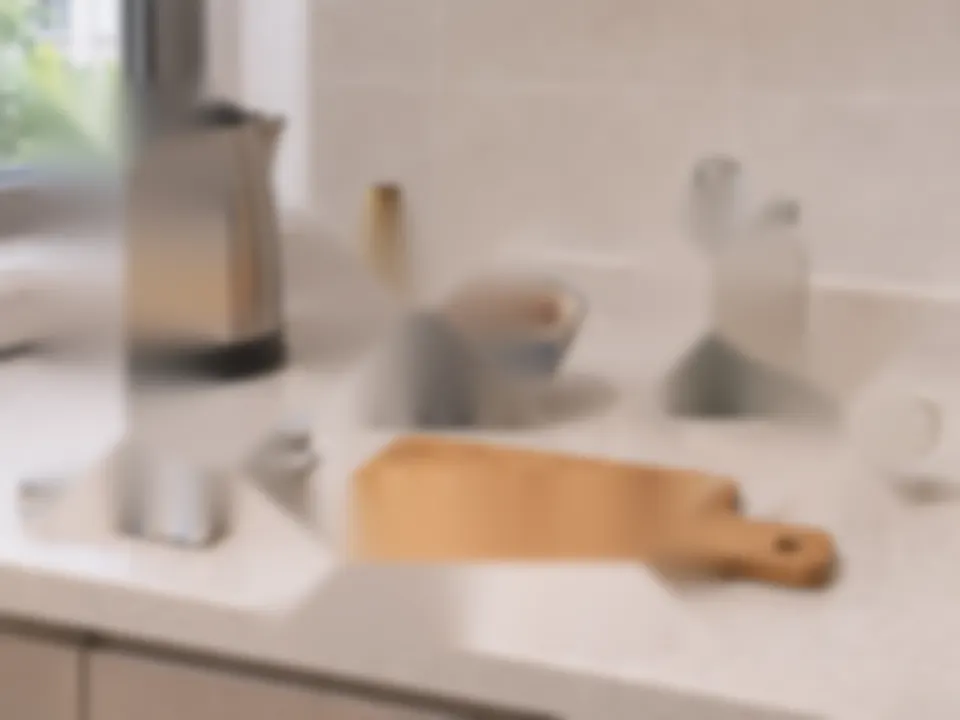
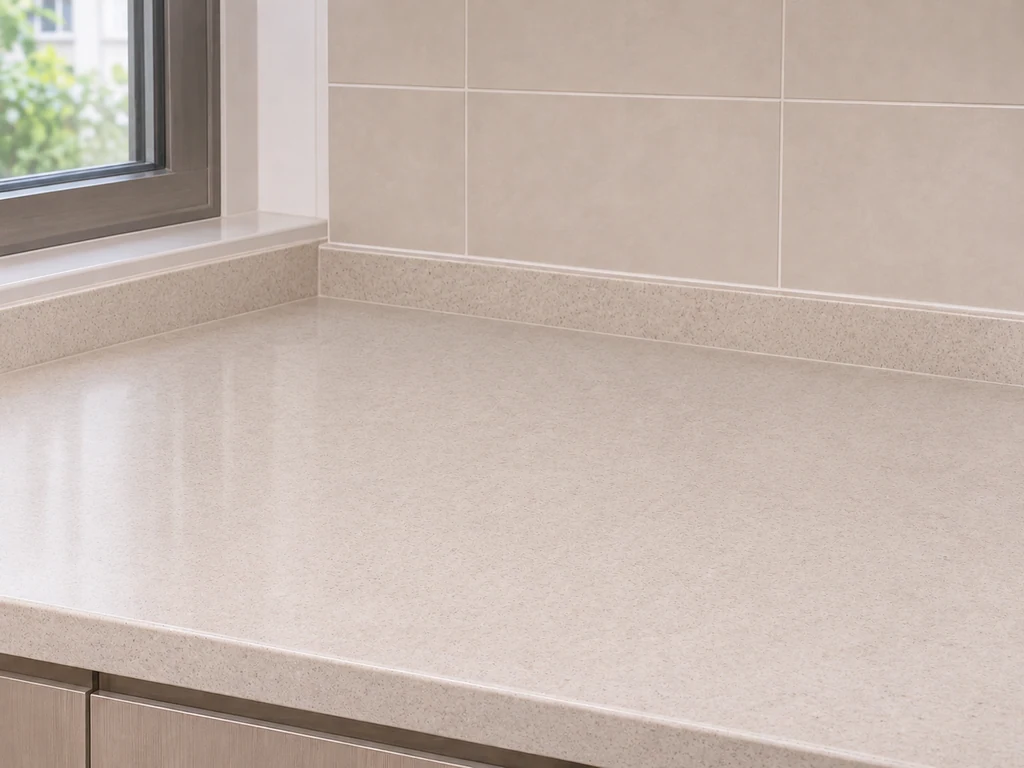
Add files via upload

diff --git a/nema-v/index.html b/nema-v/index.html
@@ -20,9 +20,9 @@
 .asset-status.error{background:#fff0ea;color:#963923;white-space:pre-wrap;overflow-wrap:anywhere}
 .asset-status.ok{background:#e7f5ed;color:#225e3b}
 button:disabled{opacity:.55;cursor:not-allowed}
-</style></head><body><header><h1>NEMA-V｜場景記憶與重建</h1><small>Scene Memory, Boundary Reconstruction & Relational Recognition｜TeleNPA 雙階段測試版</small></header><main><div id="app"></div><footer>此版本為互動介面與資料結構原型：場景使用示意插畫／圖示，並非已驗證或文化審查的正式刺激；測試版資料同步至 Supabase；刺激尚未正式驗證或文化審查，不用於臨床計分。</footer></main><script src="../config.js"></script><script src="../shared/auth.js"></script><script>
+</style></head><body><header><h1>NEMA-V｜場景記憶與重建</h1><small>Scene Memory, Boundary Reconstruction & Relational Recognition｜TeleNPA 雙階段測試版</small></header><main><div id="app"></div><footer>此版本為互動介面與資料結構原型：場景使用原始照片與另行製作的乾淨背景；兩者尚未精確像素配準；測試版資料同步至 Supabase；刺激尚未正式驗證或文化審查，不用於臨床計分。</footer></main><script src="../config.js"></script><script src="../shared/auth.js"></script><script>
 'use strict';
-const scenes=[{"id":"M1","kind":"M1","label":"現代廚房","cultural":"modern","objs":["熱水壺","水果碗","餅乾罐","馬克杯","抹布","砧板"],"points":[{"name":"熱水壺","x":13.0,"y":34.0,"w":19.0,"h":46.0},{"name":"水果碗","x":44.0,"y":43.0,"w":25.0,"h":30.0},{"name":"餅乾罐","x":74.0,"y":41.0,"w":16.0,"h":31.0},{"name":"馬克杯","x":88.0,"y":59.0,"w":15.0,"h":25.0},{"name":"抹布","x":17.0,"y":65.0,"w":27.0,"h":16.0},{"name":"砧板","x":51.0,"y":78.0,"w":48.0,"h":22.0}],"photo":"assets/M1.webp","empty":"assets/M1_empty.webp","stimulus_version":"photo-v2-pilot"},{"id":"T1","kind":"T1","label":"傳統備食區","cultural":"traditional","objs":["石臼","陶鍋","水甕","竹篩","小米","木杵"],"points":[{"name":"石臼","x":18.0,"y":59.0,"w":32.0,"h":40.0},{"name":"陶鍋","x":49.0,"y":32.0,"w":29.0,"h":34.0},{"name":"水甕","x":75.0,"y":32.0,"w":27.0,"h":42.0},{"name":"竹篩","x":80.0,"y":64.0,"w":38.0,"h":31.0},{"name":"小米","x":48.0,"y":79.0,"w":24.0,"h":16.0},{"name":"木杵","x":10.0,"y":49.0,"w":18.0,"h":36.0}],"photo":"assets/T1.webp","empty":"assets/T1_empty.webp","stimulus_version":"photo-v2-pilot"},{"id":"M2","kind":"M2","label":"書桌","cultural":"modern","objs":["檯燈","筆筒","盆栽","文件夾","筆記本","眼鏡"],"points":[{"name":"檯燈","x":17.0,"y":34.0,"w":29.0,"h":62.0},{"name":"筆筒","x":48.0,"y":45.0,"w":13.0,"h":28.0},{"name":"盆栽","x":79.0,"y":44.0,"w":28.0,"h":40.0},{"name":"文件夾","x":29.0,"y":79.0,"w":48.0,"h":22.0},{"name":"筆記本","x":54.0,"y":83.0,"w":38.0,"h":29.0},{"name":"眼鏡","x":77.0,"y":69.0,"w":22.0,"h":15.0}],"photo":"assets/M2.webp","empty":"assets/M2_empty.webp","stimulus_version":"photo-v2-pilot"},{"id":"T2","kind":"T2","label":"編織工作區","cultural":"traditional","objs":["織具","線團","竹籃","梭具","織帶","工具盒"],"points":[{"name":"織具","x":58.0,"y":39.0,"w":39.0,"h":71.0},{"name":"線團","x":24.0,"y":76.0,"w":26.0,"h":25.0},{"name":"竹籃","x":17.0,"y":56.0,"w":30.0,"h":40.0},{"name":"梭具","x":54.0,"y":76.0,"w":27.0,"h":16.0},{"name":"織帶","x":76.0,"y":81.0,"w":37.0,"h":23.0},{"name":"工具盒","x":87.0,"y":56.0,"w":22.0,"h":32.0}],"photo":"assets/T2.webp","empty":"assets/T2_empty.webp","stimulus_version":"photo-v2-pilot"},{"id":"M3","kind":"M3","label":"都市玄關","cultural":"modern","objs":["帽子","外套","背包","水壺","雨傘","收納籃"],"points":[{"name":"帽子","x":29.0,"y":30.0,"w":25.0,"h":34.0},{"name":"外套","x":57.0,"y":42.0,"w":18.0,"h":59.0},{"name":"背包","x":25.0,"y":75.0,"w":27.0,"h":40.0},{"name":"水壺","x":40.0,"y":82.0,"w":10.0,"h":30.0},{"name":"雨傘","x":70.0,"y":37.0,"w":12.0,"h":51.0},{"name":"收納籃","x":78.0,"y":78.0,"w":23.0,"h":28.0}],"photo":"assets/M3.webp","empty":"assets/M3_empty.webp","stimulus_version":"photo-v2-pilot"},{"id":"T3","kind":"T3","label":"山屋入口","cultural":"traditional","objs":["背簍","披布","手杖","草鞋","編籃","木碗"],"points":[{"name":"背簍","x":20.0,"y":48.0,"w":31.0,"h":48.0},{"name":"披布","x":41.0,"y":24.0,"w":30.0,"h":38.0},{"name":"手杖","x":66.0,"y":36.0,"w":12.0,"h":55.0},{"name":"草鞋","x":62.0,"y":83.0,"w":25.0,"h":25.0},{"name":"編籃","x":81.0,"y":64.0,"w":34.0,"h":34.0},{"name":"木碗","x":41.0,"y":65.0,"w":22.0,"h":20.0}],"photo":"assets/T3.webp","empty":"assets/T3_empty.webp","stimulus_version":"photo-v2-pilot"},{"id":"M4","kind":"M4","label":"社區花市","cultural":"modern","objs":["花盆","澆水壺","園藝剪刀","手套","草帽","購物袋"],"points":[{"name":"花盆","x":35.0,"y":35.0,"w":31.0,"h":47.0},{"name":"澆水壺","x":64.0,"y":43.0,"w":25.0,"h":45.0},{"name":"園藝剪刀","x":79.0,"y":76.0,"w":21.0,"h":17.0},{"name":"手套","x":61.0,"y":86.0,"w":28.0,"h":20.0},{"name":"草帽","x":25.0,"y":80.0,"w":48.0,"h":32.0},{"name":"購物袋","x":88.0,"y":37.0,"w":24.0,"h":39.0}],"photo":"assets/M4.webp","empty":"assets/M4_empty.webp","stimulus_version":"photo-v2-pilot"},{"id":"T4","kind":"T4","label":"採集整理區","cultural":"traditional","objs":["背簍","植物束","木盤","容器","採集工具","布袋"],"points":[{"name":"背簍","x":21.0,"y":39.0,"w":28.0,"h":68.0},{"name":"植物束","x":37.0,"y":69.0,"w":35.0,"h":29.0},{"name":"木盤","x":76.0,"y":65.0,"w":31.0,"h":28.0},{"name":"容器","x":62.0,"y":31.0,"w":22.0,"h":33.0},{"name":"採集工具","x":25.0,"y":84.0,"w":32.0,"h":20.0},{"name":"布袋","x":84.0,"y":83.0,"w":27.0,"h":33.0}],"photo":"assets/T4.webp","empty":"assets/T4_empty.webp","stimulus_version":"photo-v2-pilot"}];
+const scenes=[{"id":"M1","kind":"M1","label":"現代廚房","cultural":"modern","objs":["熱水壺","水果碗","餅乾罐","馬克杯","抹布","砧板"],"points":[{"name":"熱水壺","x":13.0,"y":34.0,"w":19.0,"h":46.0},{"name":"水果碗","x":44.0,"y":43.0,"w":25.0,"h":30.0},{"name":"餅乾罐","x":74.0,"y":41.0,"w":16.0,"h":31.0},{"name":"馬克杯","x":88.0,"y":59.0,"w":15.0,"h":25.0},{"name":"抹布","x":17.0,"y":65.0,"w":27.0,"h":16.0},{"name":"砧板","x":51.0,"y":78.0,"w":48.0,"h":22.0}],"photo":"assets/M1.webp","empty":"assets/M1_empty.webp","stimulus_version":"photo-v4-clean-background-pilot"},{"id":"T1","kind":"T1","label":"傳統備食區","cultural":"traditional","objs":["石臼","陶鍋","水甕","竹篩","小米","木杵"],"points":[{"name":"石臼","x":18.0,"y":59.0,"w":32.0,"h":40.0},{"name":"陶鍋","x":49.0,"y":32.0,"w":29.0,"h":34.0},{"name":"水甕","x":75.0,"y":32.0,"w":27.0,"h":42.0},{"name":"竹篩","x":80.0,"y":64.0,"w":38.0,"h":31.0},{"name":"小米","x":48.0,"y":79.0,"w":24.0,"h":16.0},{"name":"木杵","x":10.0,"y":49.0,"w":18.0,"h":36.0}],"photo":"assets/T1.webp","empty":"assets/T1_empty.webp","stimulus_version":"photo-v4-clean-background-pilot"},{"id":"M2","kind":"M2","label":"書桌","cultural":"modern","objs":["檯燈","筆筒","盆栽","文件夾","筆記本","眼鏡"],"points":[{"name":"檯燈","x":17.0,"y":34.0,"w":29.0,"h":62.0},{"name":"筆筒","x":48.0,"y":45.0,"w":13.0,"h":28.0},{"name":"盆栽","x":79.0,"y":44.0,"w":28.0,"h":40.0},{"name":"文件夾","x":29.0,"y":79.0,"w":48.0,"h":22.0},{"name":"筆記本","x":54.0,"y":83.0,"w":38.0,"h":29.0},{"name":"眼鏡","x":77.0,"y":69.0,"w":22.0,"h":15.0}],"photo":"assets/M2.webp","empty":"assets/M2_empty.webp","stimulus_version":"photo-v4-clean-background-pilot"},{"id":"T2","kind":"T2","label":"編織工作區","cultural":"traditional","objs":["織具","線團","竹籃","梭具","織帶","工具盒"],"points":[{"name":"織具","x":58.0,"y":39.0,"w":39.0,"h":71.0},{"name":"線團","x":24.0,"y":76.0,"w":26.0,"h":25.0},{"name":"竹籃","x":17.0,"y":56.0,"w":30.0,"h":40.0},{"name":"梭具","x":54.0,"y":76.0,"w":27.0,"h":16.0},{"name":"織帶","x":76.0,"y":81.0,"w":37.0,"h":23.0},{"name":"工具盒","x":87.0,"y":56.0,"w":22.0,"h":32.0}],"photo":"assets/T2.webp","empty":"assets/T2_empty.webp","stimulus_version":"photo-v4-clean-background-pilot"},{"id":"M3","kind":"M3","label":"都市玄關","cultural":"modern","objs":["帽子","外套","背包","水壺","雨傘","收納籃"],"points":[{"name":"帽子","x":29.0,"y":30.0,"w":25.0,"h":34.0},{"name":"外套","x":57.0,"y":42.0,"w":18.0,"h":59.0},{"name":"背包","x":25.0,"y":75.0,"w":27.0,"h":40.0},{"name":"水壺","x":40.0,"y":82.0,"w":10.0,"h":30.0},{"name":"雨傘","x":70.0,"y":37.0,"w":12.0,"h":51.0},{"name":"收納籃","x":78.0,"y":78.0,"w":23.0,"h":28.0}],"photo":"assets/M3.webp","empty":"assets/M3_empty.webp","stimulus_version":"photo-v4-clean-background-pilot"},{"id":"T3","kind":"T3","label":"山屋入口","cultural":"traditional","objs":["背簍","披布","手杖","草鞋","編籃","木碗"],"points":[{"name":"背簍","x":20.0,"y":48.0,"w":31.0,"h":48.0},{"name":"披布","x":41.0,"y":24.0,"w":30.0,"h":38.0},{"name":"手杖","x":66.0,"y":36.0,"w":12.0,"h":55.0},{"name":"草鞋","x":62.0,"y":83.0,"w":25.0,"h":25.0},{"name":"編籃","x":81.0,"y":64.0,"w":34.0,"h":34.0},{"name":"木碗","x":41.0,"y":65.0,"w":22.0,"h":20.0}],"photo":"assets/T3.webp","empty":"assets/T3_empty.webp","stimulus_version":"photo-v4-clean-background-pilot"},{"id":"M4","kind":"M4","label":"社區花市","cultural":"modern","objs":["花盆","澆水壺","園藝剪刀","手套","草帽","購物袋"],"points":[{"name":"花盆","x":35.0,"y":35.0,"w":31.0,"h":47.0},{"name":"澆水壺","x":64.0,"y":43.0,"w":25.0,"h":45.0},{"name":"園藝剪刀","x":79.0,"y":76.0,"w":21.0,"h":17.0},{"name":"手套","x":61.0,"y":86.0,"w":28.0,"h":20.0},{"name":"草帽","x":25.0,"y":80.0,"w":48.0,"h":32.0},{"name":"購物袋","x":88.0,"y":37.0,"w":24.0,"h":39.0}],"photo":"assets/M4.webp","empty":"assets/M4_empty.webp","stimulus_version":"photo-v4-clean-background-pilot"},{"id":"T4","kind":"T4","label":"採集整理區","cultural":"traditional","objs":["背簍","植物束","木盤","容器","採集工具","布袋"],"points":[{"name":"背簍","x":21.0,"y":39.0,"w":28.0,"h":68.0},{"name":"植物束","x":37.0,"y":69.0,"w":35.0,"h":29.0},{"name":"木盤","x":76.0,"y":65.0,"w":31.0,"h":28.0},{"name":"容器","x":62.0,"y":31.0,"w":22.0,"h":33.0},{"name":"採集工具","x":25.0,"y":84.0,"w":32.0,"h":20.0},{"name":"布袋","x":84.0,"y":83.0,"w":27.0,"h":33.0}],"photo":"assets/T4.webp","empty":"assets/T4_empty.webp","stimulus_version":"photo-v4-clean-background-pilot"}];
 // Photo-specific scoring anchors. These are hand-labelled pilot centers, not validated ground truth.
 const slots=[];const configs=[];
 function snapPoints(sc){let used=sc.points.map(o=>({x:o.x,y:o.y}));let extras=[{x:8,y:10},{x:50,y:10},{x:92,y:11},{x:8,y:91},{x:50,y:91},{x:92,y:91},{x:50,y:46},{x:9,y:43},{x:91,y:45}];for(let e of extras){if(used.length>=12)break;if(used.every(x=>Math.hypot(x.x-e.x,x.y-e.y)>13))used.push(e)}for(let e of extras){if(used.length>=12)break;used.push({...e})}return used.slice(0,12)}
@@ -71,19 +71,37 @@ async function checkStimulusAssets(){
  }
  if(startButton)startButton.disabled=!verifiedAssets;
 }
-function nextEncoded(){
+function nextEncoded_DISABLED(){
  const image=document.querySelector('#scene img.photo-stage');
  if(!image||!image.complete||!image.naturalWidth){
   alert('此張編碼圖片未成功載入，已阻止進入下一張。請確認 nema-v/assets 與 GitHub Pages 的路徑。');return;
  }
  state.idx++;encode();
 }
-function initial(){state.phase='intro';set(box('NEMA-V｜試測流程',`<p>八張照片中每次隨機選取四張（一般生活與傳統生活各兩張）。接著依序完成背景辨識、場景邊界調整、六物件位置重建，以及五選一整體再認。</p><p class="notice">這是可操作的原型：每一階段都<strong>不會提示正確答案</strong>。滑桿只有「較近／較遠」，不顯示數字。拖曳物件會吸附到隱形格位，也可先點選物件再點選場景位置。</p><div id="asset-status" class="asset-status">正在檢查刺激圖片…</div><div class="actions"><button id="begin-assessment" disabled onclick="start()">開始新場次</button><button class="alt" onclick="checkStimulusAssets()">重新檢查圖片</button></div>`));checkStimulusAssets();}
-async function start(){if(busy)return;if(!verifiedAssets){alert('圖片資產尚未通過完整檢查，不能開始施測。');return;}busy=true;let m=Math.random()<.5?0:1;state.order=[0,1,2,3].map((i)=>layout((i%2===m?'M':'T')+(i+1)));state.order=shuffle(state.order);state.seen=[];state.runs=[];state.idx=0;state.started=now();try{phaseMode='immediate';immediateEnd=null;await initAssessment();encode()}catch(e){alert('無法建立 Supabase 場次：'+e.message);initial()}finally{busy=false}}
-function encode(){state.phase='encode';persist();if(state.idx>=state.order.length){state.idx=0;return beginRecall()}const sc=state.order[state.idx];state.current=sc;state.seen.push({id:sc.id,at:now()});set(box(`編碼｜畫面 ${state.idx+1}／${state.order.length}`,`<p class="minor">請記住畫面中的<strong>背景、六項物件及各物件的位置</strong>。觀察完成後按下一步。</p><div id="scene">${sceneHtml(sc,sc.locs,sc.zoom,{showItems:false})}</div><div class="actions"><button onclick="nextEncoded()">已記住，下一張</button></div>`));}
+function initial(){state.phase='intro';set(box('NEMA-V｜試測流程',`<p>依照 TeleNPA 首頁設定，從場景組 A（一般生活）／B（文化生活）選取；完整施測共八張。每張編碼固定 10 秒，自動進入下一張。接著依序完成背景辨識、場景邊界調整、六物件位置重建，以及五選一整體再認。</p><p class="notice">這是可操作的原型：每一階段都<strong>不會提示正確答案</strong>。滑桿只有「較近／較遠」，不顯示數字。拖曳物件會吸附到隱形格位，也可先點選物件再點選場景位置。</p><div id="asset-status" class="asset-status">正在檢查刺激圖片…</div><div class="actions"><button id="begin-assessment" disabled onclick="start()">開始新場次</button><button class="alt" onclick="checkStimulusAssets()">重新檢查圖片</button></div>`));checkStimulusAssets();}
+async function start(){if(busy)return;if(!verifiedAssets){alert('圖片資產尚未通過完整檢查，不能開始施測。');return;}busy=true;const selectedSet=['a','b','both'].includes(protocol()?.nemav_scene_set)?protocol().nemav_scene_set:'both';state.sceneSet=selectedSet;state.order=shuffle((selectedSet==='a'?['M1','M2','M3','M4']:selectedSet==='b'?['T1','T2','T3','T4']:['M1','T1','M2','T2','M3','T3','M4','T4']).map(layout));state.seen=[];state.runs=[];state.idx=0;state.started=now();try{phaseMode='immediate';immediateEnd=null;await initAssessment();encode()}catch(e){alert('無法建立 Supabase 場次：'+e.message);initial()}finally{busy=false}}
+let encodingTimeout=null,encodingInterval=null,encodingToken=0;
+function stopEncodingTimer(){if(encodingTimeout)clearTimeout(encodingTimeout);if(encodingInterval)clearInterval(encodingInterval);encodingTimeout=null;encodingInterval=null;encodingToken++;}
+function encode(){
+ stopEncodingTimer();state.phase='encode';persist();
+ if(state.idx>=state.order.length){state.idx=0;return beginRecall()}
+ const sc=state.order[state.idx];state.current=sc;
+ if(!state.seen.some(o=>o.id===sc.id))state.seen.push({id:sc.id,at:now()});
+ set(box(`編碼｜畫面 ${state.idx+1}／${state.order.length}`,`<p class="minor">請記住畫面的背景、六項物件及位置。<strong>圖片成功載入後將固定呈現 10 秒，隨後自動進入下一張。</strong></p><div id="scene">${sceneHtml(sc,sc.locs,sc.zoom,{showItems:false})}</div><p id="encode-status" role="status" class="minor">正在載入刺激，計時尚未開始…</p>`));
+ const im=document.querySelector('#scene img.photo-stage');const token=encodingToken;
+ function ready(){if(token!==encodingToken||state.phase!=='encode')return;
+   if(!im.naturalWidth){const el=$('encode-status');if(el)el.textContent='圖片載入失敗，已暫停測驗。';return}
+   const startAt=performance.now();state.seen[state.seen.length-1].loaded_at=now();persist();
+   const el=$('encode-status');if(el)el.textContent='請專心觀看圖片';
+   encodingInterval=setInterval(()=>{if(token!==encodingToken)return;const el=$('encode-status');if(el)el.textContent='請專心觀看圖片（剩餘 '+Math.max(0,Math.ceil((10000-(performance.now()-startAt))/1000))+' 秒）';},250);
+   encodingTimeout=setTimeout(()=>{if(token!==encodingToken)return;stopEncodingTimer();state.idx++;encode()},10000);
+ }
+ if(im.complete)ready();else{im.addEventListener('load',ready,{once:true});im.addEventListener('error',()=>{const el=$('encode-status');if(el)el.textContent='無法載入刺激圖片，請檢查 assets；不會自動跳過。'},{once:true})}
+}
+
 function beginRecall(){state.idx=0;recallScene()}
-function recallScene(){state.phase='background';if(state.idx>=state.order.length)return completePhase();let sc=state.order[state.idx];state.current=sc;state.sites=snapPoints(sc);state.answers={id:sc.id,stimulus_version:'photo-v2-pilot',phase:phaseMode,encZoom:sc.zoom,encLocs:sc.locs,object_names:sc.objs,object_centers:sc.points.map(p=>({x:p.x,y:p.y})),sites:state.sites,started_at:now()};state.background=null;state.zoom=1;state.selectedObj=null;state.recognition=null;persist();renderBg()}
-function renderBg(){let sc=state.current;let others=scenes.filter(t=>t.id!==sc.id&&t.cultural===sc.cultural);const options=shuffle([sc,...others]);state.bgVariants=options.map(o=>o.id);set(box(`重建 ${state.idx+1}／${state.order.length}｜背景辨識`,`<p>選擇先前看過的場景背景。</p><div class="bgchoices">${options.map((o,i)=>`<button class="option" onclick="pickBg(${i},'${o.id}')"><div class="thumb"><img src="${o.empty}" alt="背景選項"></div><div class="optionlabel">選項 ${'ABCD'[i]}</div></button>`).join('')}</div><p class="photo-note">背景已移除物件，屬於影像修補的試測素材；背景版本尚未完成視覺難度配對。</p><div class="actions"><button id="next" disabled onclick="goZoom()">下一步：調整場景遠近</button></div>`))}
+function recallScene(){state.phase='background';if(state.idx>=state.order.length)return completePhase();let sc=state.order[state.idx];state.current=sc;state.sites=snapPoints(sc);state.answers={id:sc.id,scene_set:state.sceneSet,stimulus_version:'photo-v4-clean-background-pilot',phase:phaseMode,encZoom:sc.zoom,encLocs:sc.locs,object_names:sc.objs,object_centers:sc.points.map(p=>({x:p.x,y:p.y})),sites:state.sites,started_at:now()};state.background=null;state.zoom=1;state.selectedObj=null;state.recognition=null;persist();renderBg()}
+function renderBg(){let sc=state.current;let others=scenes.filter(t=>t.id!==sc.id&&t.cultural===sc.cultural);const options=shuffle([sc,...others]);state.bgVariants=options.map(o=>o.id);set(box(`重建 ${state.idx+1}／${state.order.length}｜背景辨識`,`<p>選擇先前看過的場景背景。</p><div class="bgchoices">${options.map((o,i)=>`<button class="option" onclick="pickBg(${i},'${o.id}')"><div class="thumb"><img src="${o.empty}" alt="背景選項"></div><div class="optionlabel">選項 ${'ABCD'[i]}</div></button>`).join('')}</div><p class="photo-note">背景已改為乾淨無物件版本；目前與原始編碼照片仍有微小場景差異，僅供功能試測。</p><div class="actions"><button id="next" disabled onclick="goZoom()">下一步：調整場景遠近</button></div>`))}
 function pickBg(i,id){state.background=id;state.answers.background_choice_id=id;state.answers.background_correct=(id===state.current.id);state.answers.background_at=now();persist();document.querySelectorAll('.bgchoices .option').forEach((b,j)=>b.classList.toggle('selected',i===j));$('next').disabled=false}
 function goZoom(){state.phase='zoom';state.zoom=.73+Math.random()*.54;renderZoom();}
 function renderZoom(){let sc=state.current;set(box(`重建 ${state.idx+1}／${state.order.length}｜場景邊界`,`<p>請調整畫面的遠近，直到它看起來與剛才記住的視野範圍相同。</p><div id="scene">${sceneHtml({...sc,empty:scenes.find(o=>o.id===state.background)?.empty||sc.empty},Array(6).fill(null),state.zoom,{empty:true,showItems:false})}</div><div class="sliderwrap"><div class="sliderlabels"><span>較近</span><span>較遠</span></div><input id="zoomslider" type="range" min="0.65" max="1.35" step="0.005" value="${state.zoom}" oninput="changeZoom(this.value)" aria-label="場景較近或較遠"></div><p class="minor">請依記憶調整，畫面不會顯示比例或正確答案。</p><div class="actions"><button onclick="goPlace()">下一步：重建物件位置</button></div>`));}
@@ -103,7 +121,7 @@ let objPts=state.current.points,respPts=state.places.map(i=>state.sites[i]);
 let errors=respPts.map((p,i)=>p?Math.round(Math.hypot(p.x-objPts[i].x,p.y-objPts[i].y)*100)/100:null);
 const correct=errors.map((e,i)=>state.places[i]===i);
 let swaps=0;for(let a=0;a<6;a++)for(let b=a+1;b<6;b++)if(state.places[a]===b&&state.places[b]===a)swaps++;
-state.answers.scoring={scoring_version:'photo-v2-anchor-pilot',location_correct:correct.filter(Boolean).length,location_correct_items:correct,location_errors_percent:errors,mean_location_error_pct:errors.reduce((a,b)=>a+b,0)/6,swap_pairs:swaps,boundary_log_ratio:Math.log(state.zoom/state.current.zoom),boundary_direction:state.zoom>state.current.zoom?'wider':state.zoom<state.current.zoom?'closer':'same',background_correct:state.answers.background_correct,integrated_recognition_correct:state.answers.recognition_correct,integrated_lure_type:state.answers.recognition_type,clinical_score_valid:false};
+state.answers.scoring={scoring_version:'photo-v4-anchor-pilot',location_correct:correct.filter(Boolean).length,location_correct_items:correct,location_errors_percent:errors,mean_location_error_pct:errors.reduce((a,b)=>a+b,0)/6,swap_pairs:swaps,boundary_log_ratio:Math.log(state.zoom/state.current.zoom),boundary_direction:state.zoom>state.current.zoom?'wider':state.zoom<state.current.zoom?'closer':'same',background_correct:state.answers.background_correct,integrated_recognition_correct:state.answers.recognition_correct,integrated_lure_type:state.answers.recognition_type,clinical_score_valid:false};
 try{await syncTrial(clone(state.answers),state.idx);state.runs.push(clone(state.answers));state.idx++;persist();recallScene()}catch(e){alert('雲端同步未成功，請確認網路並再次按儲存：'+e.message)}finally{busy=false}}
 
 async function completePhase(){if(phaseMode==='immediate'){
@@ -125,7 +143,7 @@ async function insertRow(table,row){return cloud('/rest/v1/'+table,{method:'POST
 async function initAssessment(){
  const b=activeBattery();if(!A.user())throw Error('請先在首頁登入 Supabase');if(!b?.id)throw Error('請先在首頁選用受試者場次');
  assessment=crypto.randomUUID();
- await insertRow('nemav_sessions',{id:assessment,owner_id:A.user().id,battery_session_id:b.id,stimulus_order:state.order.map(x=>({scene_id:x.id,locations:x.locs,encoding_zoom:x.zoom})),stimulus_version:'photo-v2-pilot'});
+ await insertRow('nemav_sessions',{id:assessment,owner_id:A.user().id,battery_session_id:b.id,stimulus_order:state.order.map(x=>({scene_id:x.id,locations:x.locs,encoding_zoom:x.zoom,scene_set:state.sceneSet,encoding_duration_ms:10000})),stimulus_version:'photo-v4-clean-background-pilot'});
  persist();
 }
 async function syncTrial(r,index){
@@ -140,7 +158,7 @@ async function syncRun(phase){
  await cloud('/rest/v1/test_runs?on_conflict=id',{
  method:'POST',headers:{Prefer:'resolution=ignore-duplicates,return=minimal'},
  body:JSON.stringify({id:state.runIds[phase],owner_id:A.user().id,battery_session_id:activeBattery().id,
- test_id:'nemav',test_version:'photo-v2-pilot',mode:'formal',condition:phase,status:'completed',
+ test_id:'nemav',test_version:'photo-v4-clean-background-pilot',mode:'formal',condition:phase,status:'completed',
  started_at:phase==='immediate'?state.started:immediateEnd,ended_at:new Date().toISOString(),source_record_id:assessment})});
 }
 
